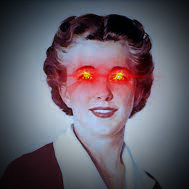
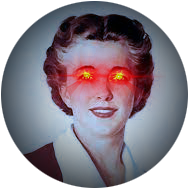
~adjusting images for first post

Changed region(s): [[0.0, 0.0, 1.0, 1.0]]

diff --git a/_includes/blog_newsletter.html b/_includes/blog_newsletter.html
@@ -1,6 +1,6 @@
 <!-- home hero section -->
 <div class="codexlogo">
-    <img class="codex-logo" src="{{site.url}}{{site.baseurl}}/assets/img/codex_logo_horizontal.png" height="250" />
+    <img class="codex-logo" src="{{site.url}}{{site.baseurl}}/assets/img/codex_logo.png" height="300" />
   </div>
   
 <!-- Mailchimp Newletters -->

diff --git a/_posts/2022-11-28-welcome.md b/_posts/2022-11-28-welcome.md
@@ -5,17 +5,13 @@ summary: "Kicking off the Co3dex"
 author: hogjonny
 date: '2022-11-28 18:39:36 -0600'
 category: info
-thumbnail: /assets/img/posts/welcome_thumb.png
+thumbnail: /assets/img/posts/2022-11-28-welcome-assets/3a17db46d14fe4b643a70263904ef7a878ac3558.png
 keywords: welcome
 permalink: /blog/welcome-to-the-co3dex/
 usemathjax: true
 ---
 
 # Welcome to the Co3deX
-
-![2022-11-28-14-44-17-image.png](../assets/img/posts/2022-11-28-welcome-assets/3a17db46d14fe4b643a70263904ef7a878ac3558.png "co3dex_mock")
-
-
 
 Hello and welcome to the Open 3D Engine CO3DEX, a blog of my Journey's in Real-time 3D Graphics and Technical Art.  The Open 3D Engine ([O3DE.org](https://www.o3de.org/)) is an Apache 2.0-licensed multi-platform 3D engine that enables developers and content creators to build AAA games, cinema-quality 3D worlds, and high-fidelity simulations without any fees or commercial obligations.  [GitHub - o3de/o3de: Open 3D Engine (O3DE)](https://github.com/o3de/o3de)
 
@@ -52,7 +48,7 @@ _LOGGER = _logging.getLogger(_MODULENAME)
 _LOGGER.info(f'Initializing: {_MODULENAME} ... Hello World!')
 ```
 
-
+![2022-11-28-codex_logo_horizontal.png](../assets/img/posts/codex_logo_horizontal.png "co3dex_logo_horizontal")
 
 ---
 
